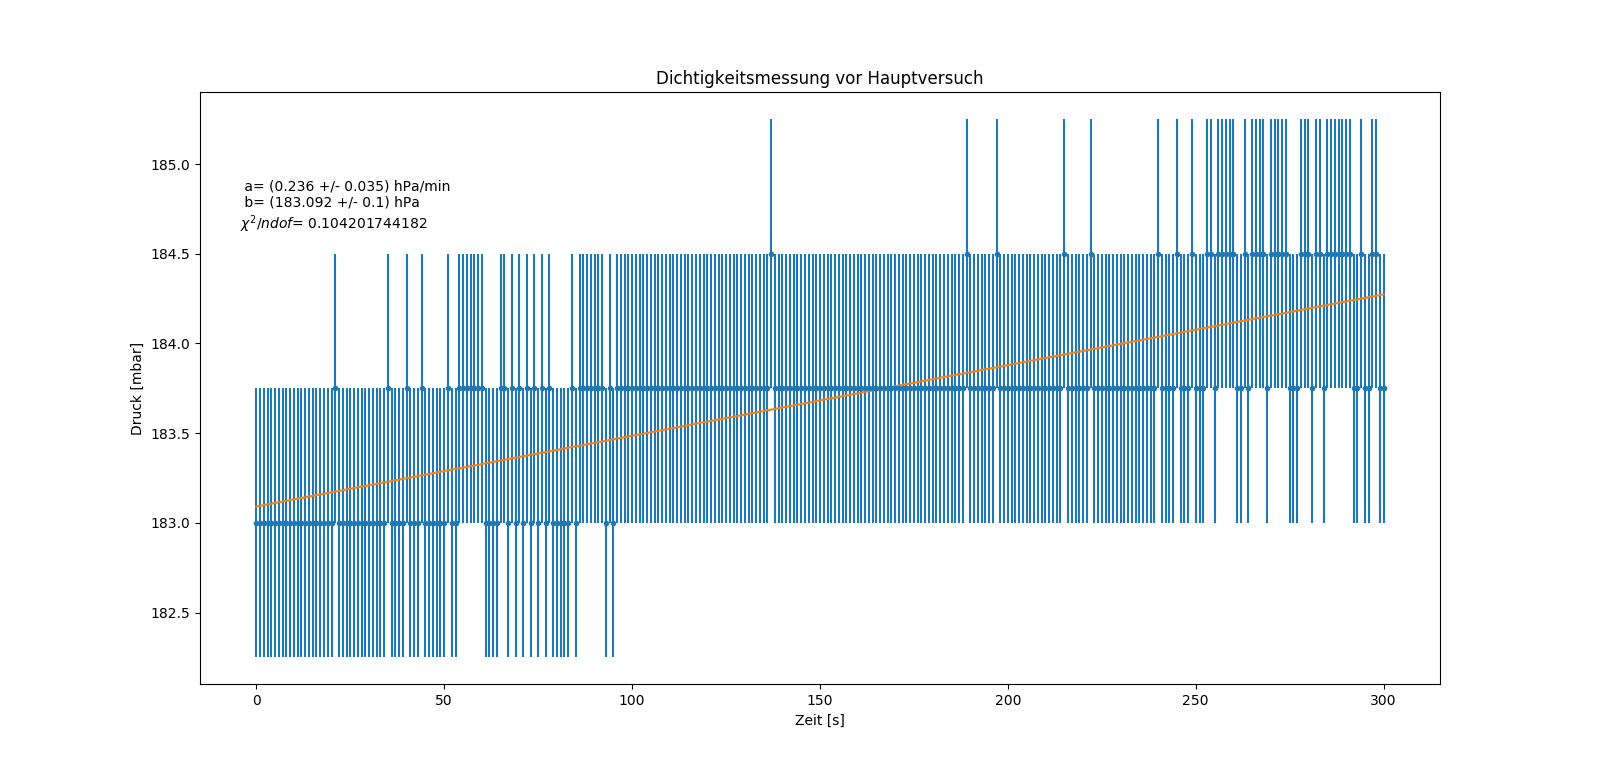
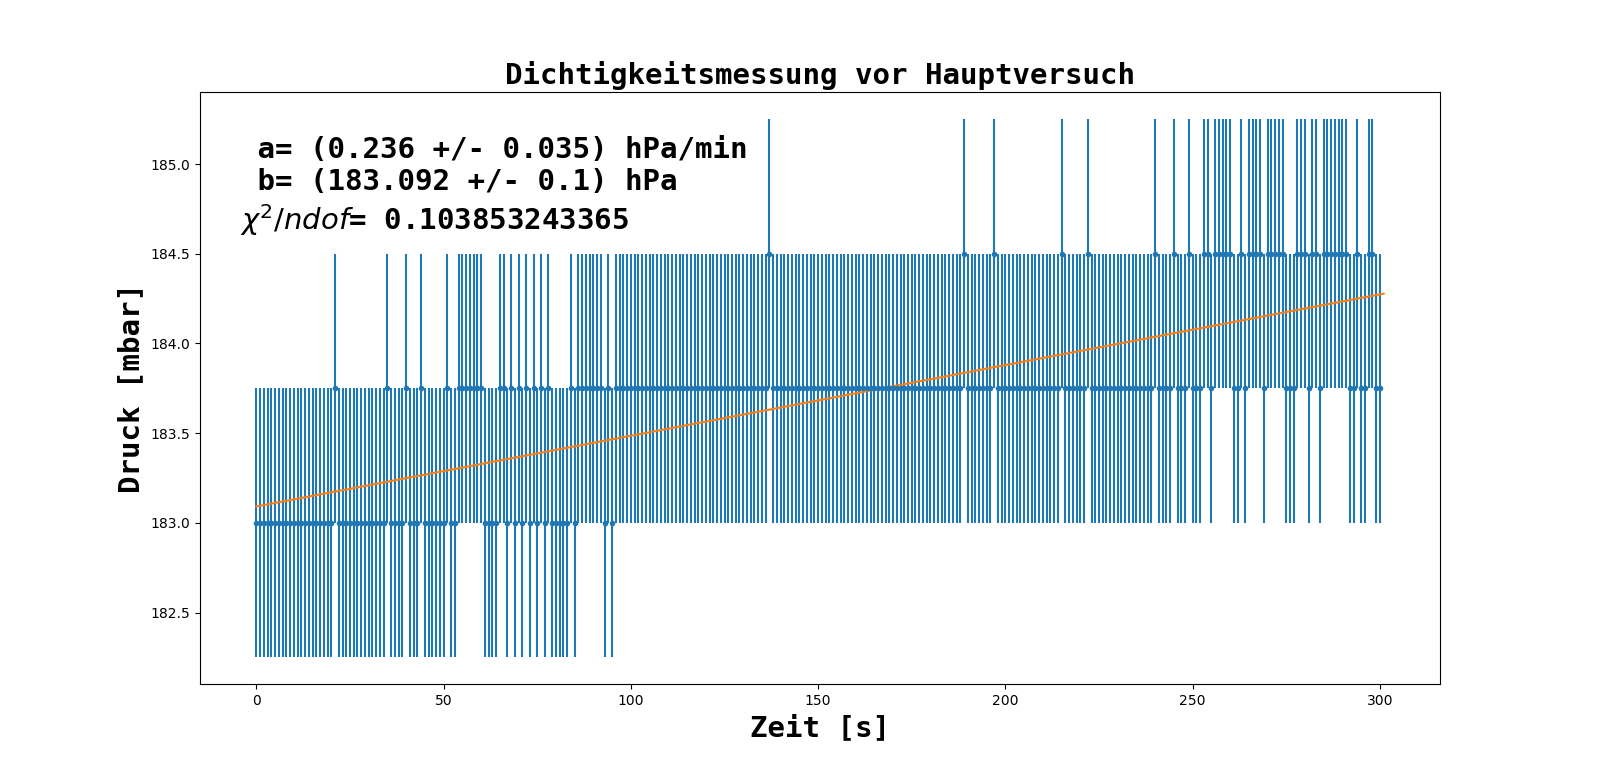
Beschriftung der Plots Dichtigkeit vergrößert

diff --git a/Thermodynamik/Python/Dichtigkeit.py b/Thermodynamik/Python/Dichtigkeit.py
@@ -15,8 +15,8 @@ import Rauschmessung as Rm
 start_time=timeit.default_timer()
 
 #Lese alle Datensätze ein
-M_S_1 = prak.lese_lab_datei('CASSY/Dichtigkeitsmessung_vorher.lab')
-p_v = M_S_1[:, 2]
+M_S_1 = prak.lese_lab_datei('lab/Dichtigkeitsmessung_vorher.lab')
+p_v = M_S_1[:, 4]
 t_v = M_S_1[:, 1]
 
 M_S_2 = prak.lese_lab_datei('lab/Dichtigkeitsmessung_nachher_2.lab')
@@ -43,9 +43,12 @@ for i in range(p_v.size):
     Y[i] = p_v[i] - leckrate_v * t_v[i] - b_v
 Y_err = np.full(p_v.size, np.sqrt(var_v**2 + 0.75**2))
 fig1, ax1 = plt.subplots()
-ax1.set_xlabel("Zeit [s]")
-ax1.set_ylabel("Residuen [hPa]")
-ax1.set_title("Residuen Dichtigkeitsmessung vorher")
+plt.font = {'family' : 'monospace',
+        'weight' : 'bold',
+        'size'   : 21}
+ax1.set_xlabel("Zeit [s]", **plt.font)
+ax1.set_ylabel("Residuen [hPa]", **plt.font)
+ax1.set_title("Residuen Dichtigkeitsmessung vorher", **plt.font)
 plt.plot(x, y, color='r')
 plt.errorbar(X, Y, yerr=Y_err, fmt='.', color='b')
 fig1.show()
@@ -59,9 +62,12 @@ for i in range(p_n.size):
     Y_n[i] = p_n[i] - leckrate_n * t_n[i] - b_n
 Y_n_err = np.full(p_n.size, np.sqrt(var_n**2 + 0.75**2))
 fig2, ax1 = plt.subplots()
-ax1.set_xlabel("Zeit [s]")
-ax1.set_ylabel("Residuen [hPa]")
-ax1.set_title("Residuen Dichtigkeitsmessung nachher")
+plt.font = {'family' : 'monospace',
+        'weight' : 'bold',
+        'size'   : 21}
+ax1.set_xlabel("Zeit [s]", **plt.font)
+ax1.set_ylabel("Residuen [hPa]", **plt.font)
+ax1.set_title("Residuen Dichtigkeitsmessung nachher", **plt.font)
 plt.plot(x, y, color='r')
 plt.errorbar(X_n, Y_n, yerr=Y_n_err, fmt='.', color='b')
 fig2.show()
@@ -73,14 +79,17 @@ sig_einzel = np.sqrt(Fehler_v**2 + 0.75**2)
 p_err = np.full(p_v.size, sig_einzel)
 chiq_dof_v = chiq_v/(p_v.size-2)
 fig3, ax3 = plt.subplots()
-ax3.set_xlabel("Zeit [s]")
-ax3.set_ylabel("Druck [mbar]")
-ax3.set_title("Dichtigkeitsmessung vor Hauptversuch")
+plt.font = {'family' : 'monospace',
+        'weight' : 'bold',
+        'size'   : 21}
+ax3.set_xlabel("Zeit [s]", **plt.font)
+ax3.set_ylabel("Druck [mbar]", **plt.font)
+ax3.set_title("Dichtigkeitsmessung vor Hauptversuch", **plt.font)
 plt.errorbar(t_v, p_v, yerr=p_err, fmt='.')
 plt.figtext(0.15,0.7,
             '\n a= ('+str(np.round(leckrate_v * 60,3))+' +/- '+str(np.round(Fehler_v * 60,3))+') hPa/min\n'
             +' b= ('+str(np.round(b_v,3))+' +/- '+str(np.round(eb_v,3))+') hPa\n'
-            +'$\chi ^2 / ndof$= ' + str(chiq_v/(p_v.size-2)))
+            +'$\chi ^2 / ndof$= ' + str(chiq_v/(p_v.size-2)), **plt.font)
 plt.plot(x, y)
 fig3.show()
 
@@ -90,14 +99,17 @@ y = leckrate_n * x + b_n
 sig_einzel = np.sqrt(Fehler_n**2 + 0.75**2)
 p_n_err = np.full(p_n.size, sig_einzel)
 fig4, ax3 = plt.subplots()
-ax3.set_xlabel("Zeit [s]")
-ax3.set_ylabel("Druck [mbar]")
-ax3.set_title("Dichtigkeitsmessung nach Hauptversuch")
+plt.font = {'family' : 'monospace',
+        'weight' : 'bold',
+        'size'   : 21}
+ax3.set_xlabel("Zeit [s]", **plt.font)
+ax3.set_ylabel("Druck [mbar]", **plt.font)
+ax3.set_title("Dichtigkeitsmessung nach Hauptversuch", **plt.font)
 plt.errorbar(t_n, p_n, yerr=p_n_err, fmt='.')
 plt.figtext(0.15,0.7,
             '\n a= ('+str(np.round(leckrate_n * 60,3))+' +/- '+str(np.round(Fehler_n * 60,3))+') hPa/min\n'
             +' b= ('+str(np.round(b_n,3))+' +/- '+str(np.round(eb_n,3))+') hPa\n'
-            +'$\chi ^2 / ndof$= ' + str(chiq_n/(p_n.size-2)))
+            +'$\chi ^2 / ndof$= ' + str(chiq_n/(p_n.size-2)), **plt.font)
 plt.plot(x, y)
 fig4.show()
 
